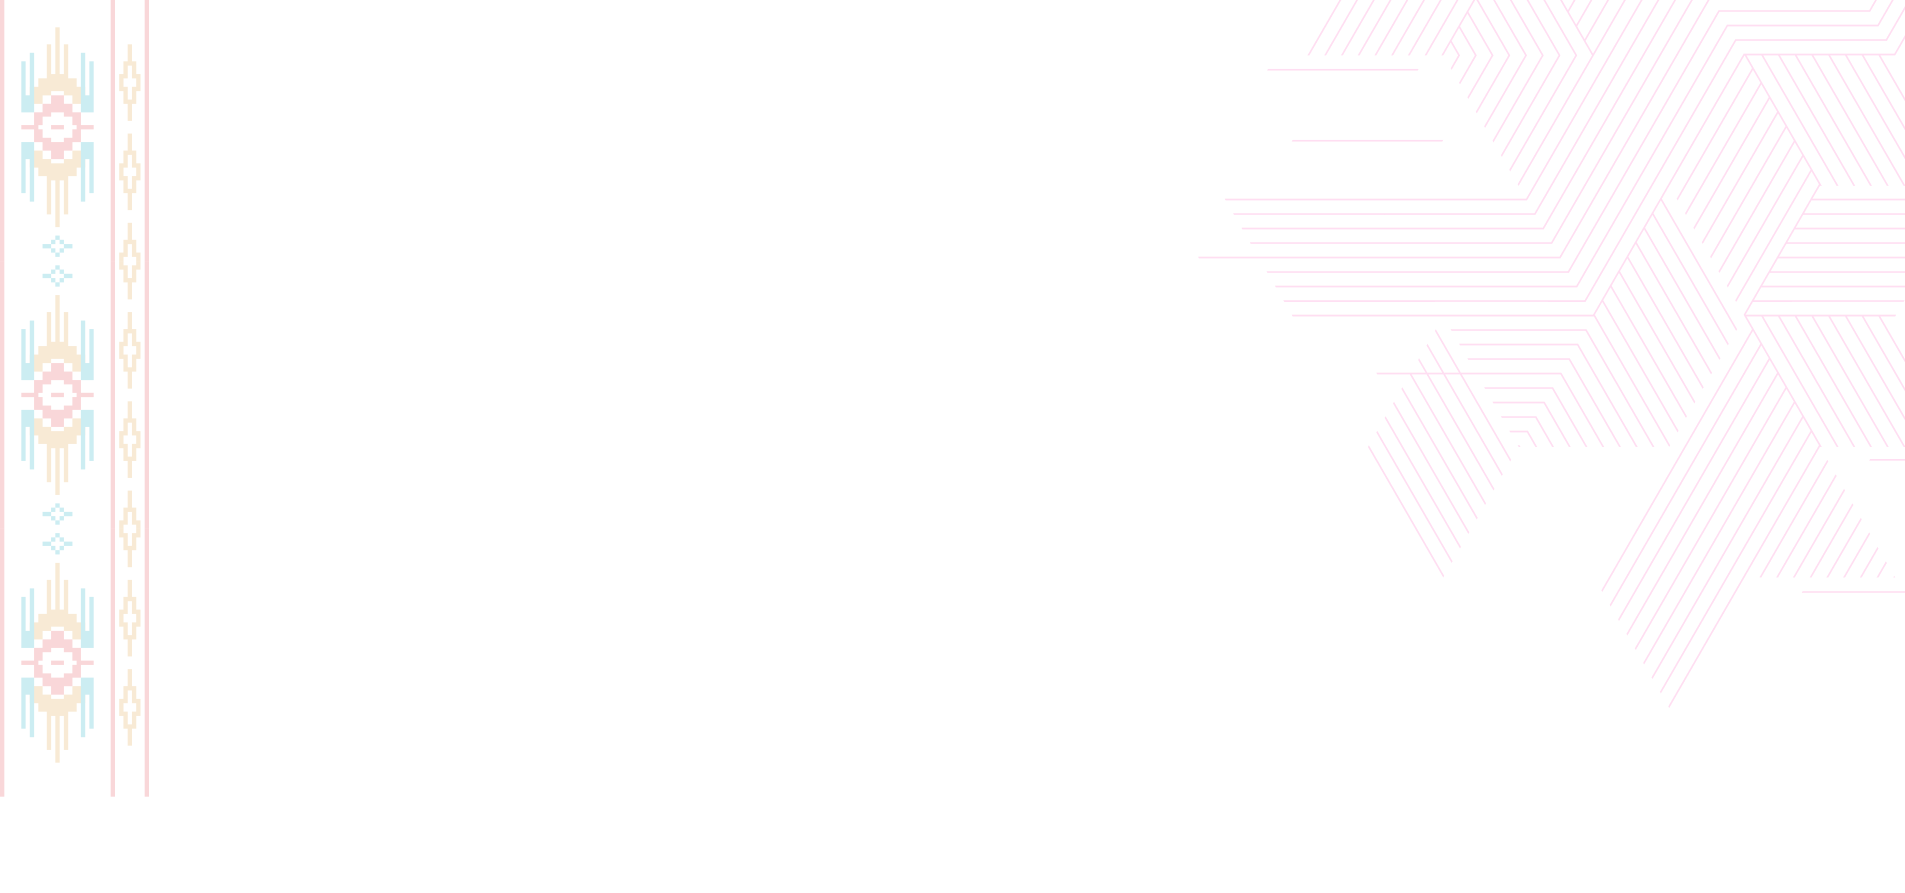
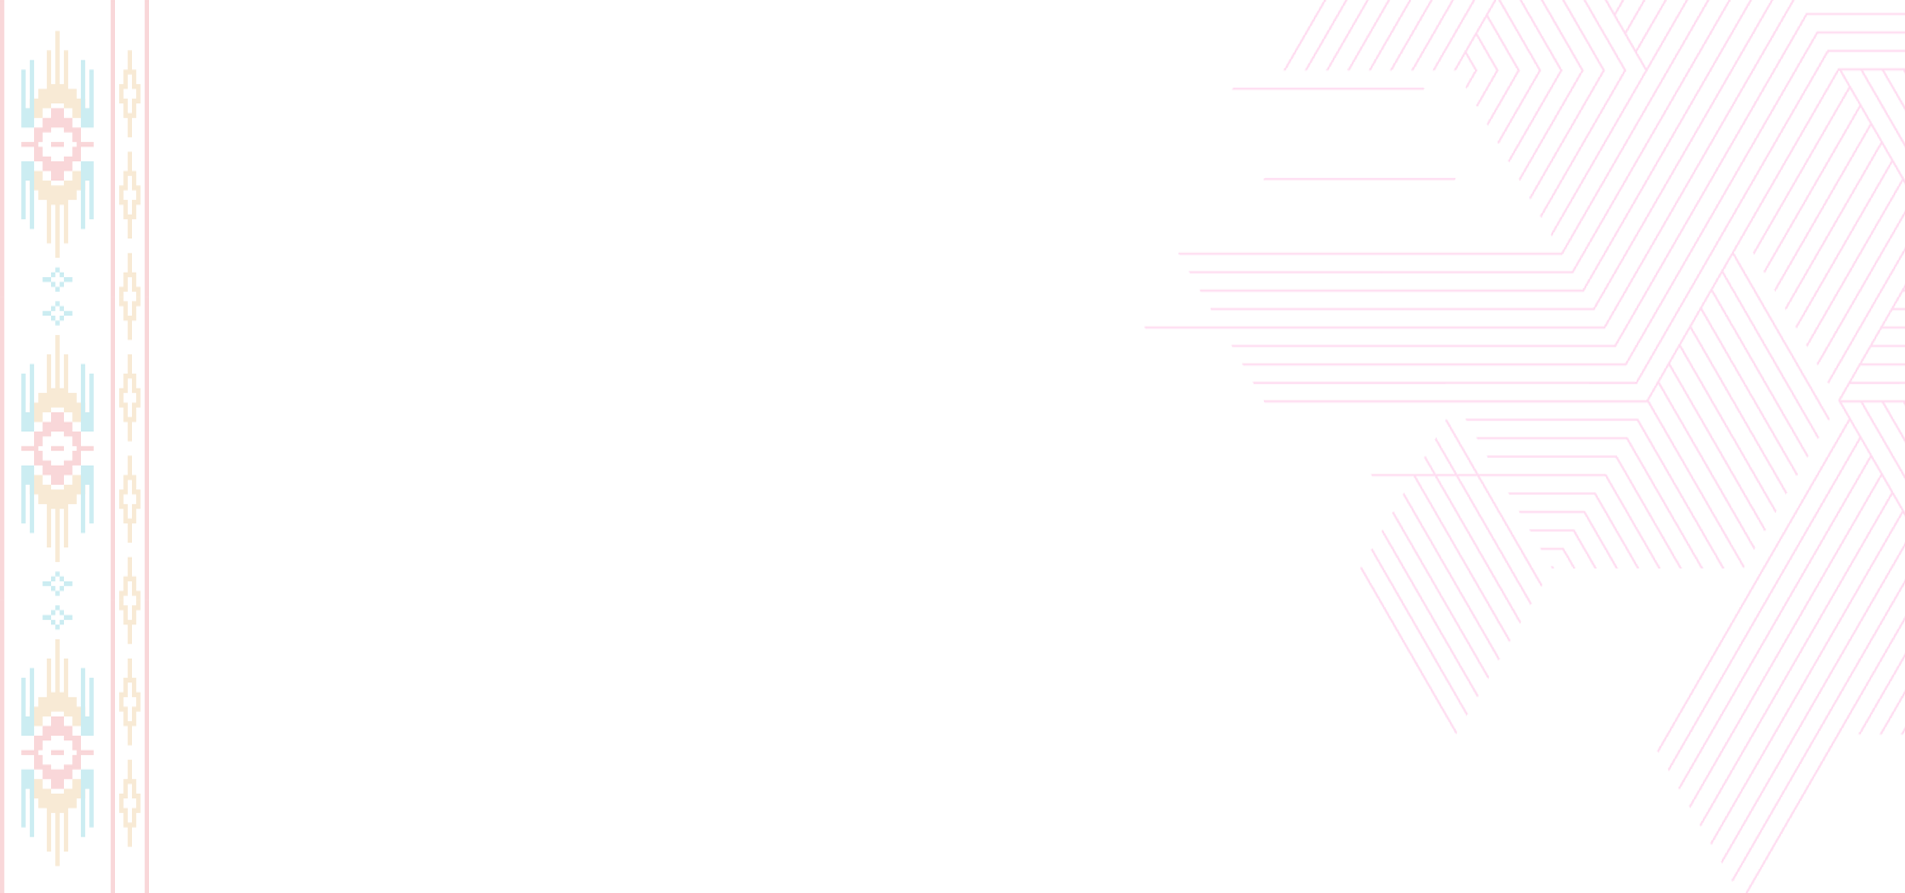
fix bg-doctor

diff --git a/public/css/custom.css b/public/css/custom.css
@@ -1073,9 +1073,9 @@ li.sub-menu--item.nav-item-has-children .dropdown-icon {
 
 .bg-doctor {
     background-image: url(/images/doctors_bg_1.png);
-    background-size: cover;
-    background-repeat: no-repeat;
-    background-position: center;
+    background-size: contain, cover;
+    background-repeat: repeat-y;
+    background-position: left top;
 }
 .bg-counter {
     /* background-color: rgba(49, 49, 49, 0.5); */
